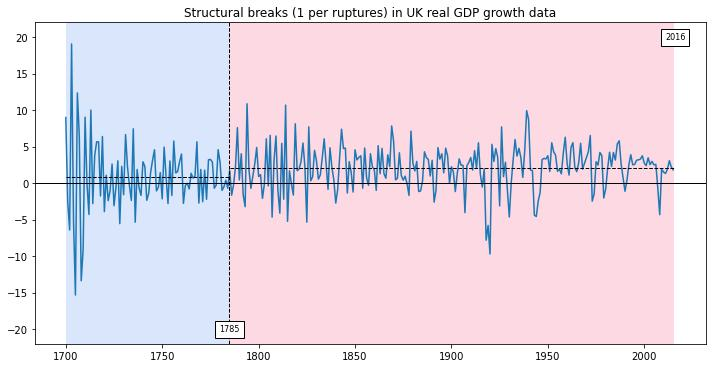
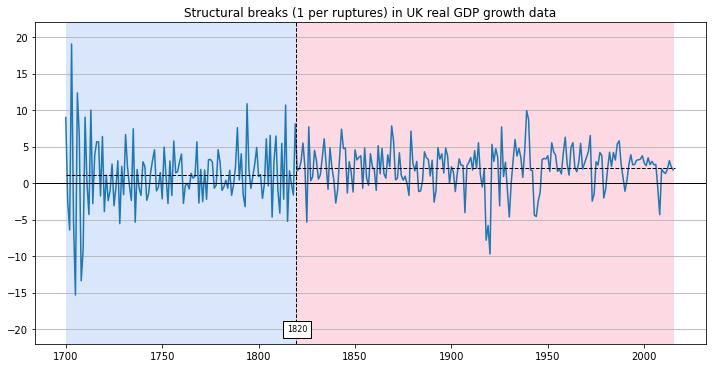
use rbf (it's nonparametric) for baseline

Changed region(s): [[0.0927, 0.0598, 0.8652, 0.9565], [0.927, 0.0598, 0.9888, 0.1495], [0.8961, 0.4484, 0.9579, 0.4783]]

diff --git a/uk_gdp_structural_breaks/find_structural_breaks.py b/uk_gdp_structural_breaks/find_structural_breaks.py
@@ -20,7 +20,10 @@ data.set_index('DATE', inplace=True)
 for n_bkps in [1, 3, 5, 7]:
 
     # detection
-    algo = rpt.Dynp(model="l2").fit(data['RGDPMPUKA_PC1'].values)
+    # l1 = median
+    # l2 = mean
+    # rbf = kernel mean change
+    algo = rpt.Dynp(model='rbf').fit(data['RGDPMPUKA_PC1'].values)
     result = algo.predict(n_bkps=n_bkps)
 
     # display
@@ -38,17 +41,18 @@ for n_bkps in [1, 3, 5, 7]:
     for i in range(len(result)):
         left = 0 if i == 0 else result[i - 1]
         right = result[i]
-        mean = np.average(data['RGDPMPUKA_PC1'].values[left:right])
+        mean = np.nanmean(data['RGDPMPUKA_PC1'].values[left:right])
         ax.hlines(mean, left, right,
                   color='black', linewidth=1, linestyle='dashed')
 
     # add in break point labels
-    for index, i in enumerate(np.array(result)):
+    for index, i in enumerate(np.array(result)[:-1]):
         tb = -1 if index % 2 == 0 else 1
         y = str(i + data.index.min().year)
         t = ax.text(i, 20 * tb, y, va='center', ha='center', fontsize=8)
         t.set_bbox(dict(facecolor='white', alpha=1, edgecolor='black'))
 
+    ax.grid(axis='y')
     ax.set_ylim(-22, 22)
     # ax.set_xlim(0, len(data))  # don't use; screws up labels
 
